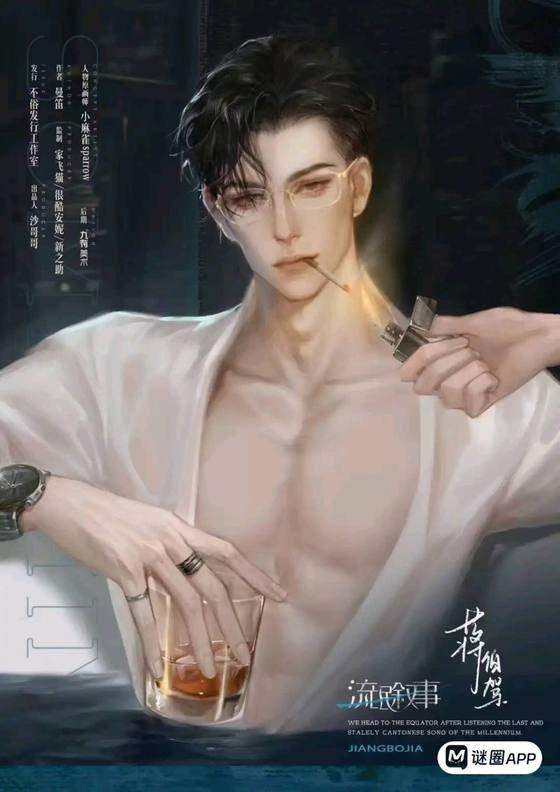
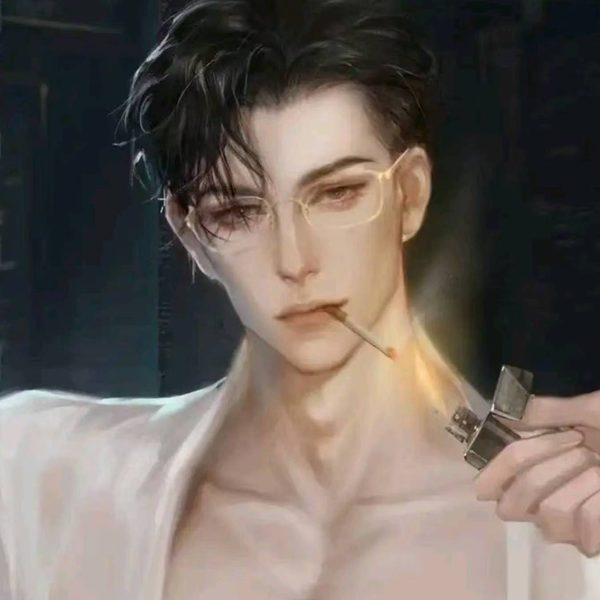
feat(assets): 角色头像统一切换为 600x600 方形裁剪版
按人脸校准裁切并剔除海报文字/水印（芸芸 6 角色 + 流氓叙事 9 角色），
阿奇/羌青瓷男同步方形化；README 同步裁剪口径。

diff --git a/apps/miniapp/src/assets/README.md b/apps/miniapp/src/assets/README.md
@@ -7,7 +7,7 @@
 | 目录 | 用途 | 引用方 | 说明 |
 |---|---|---|---|
 | `icons/` | 底部 tabBar 图标 | `src/app.config.ts` | 每 tab 两张：`name.png`（未选中）+ `name-active.png`（选中） |
-| `characters/` | 角色立绘/头像 | `src/pages/home/index.model.ts` | 竖版海报头像（多数 560×747~792 JPG，q72 压缩），`LOCAL_CHARACTER_AVATARS` 按角色名映射；流氓叙事 9 角色已替换为正式海报，程聿怀/羌青瓷另有性别变体（`chengyuhuai-female.jpg`、`qiangqingci-male.jpg`），选角时按本地选择切换；芸芸 6 角色为 600×600 方形头像（q82，源图：官方角色海报，按人脸校准裁切） |
+| `characters/` | 角色立绘/头像 | `src/pages/home/index.model.ts` | 方形头像为主：芸芸 6 角色与流氓叙事 9 角色（程聿怀男/女、程走柳、羌青瓷女、以撒、奥丁、黛利拉、蒋伯驾、缪宏谟）均为 600×600 JPG（q82，源图：官方角色海报，按人脸校准裁切，剔除海报文字/水印）；流氓叙事 阿奇/羌青瓷男 亦为 600×600 方形头像（q82）；程聿怀/羌青瓷另有性别变体（`chengyuhuai-female.jpg`、`qiangqingci-male.jpg`），选角时按本地选择切换；月见庭院 4 角色为 600×600 方形（无本地原图） |
 | `home/` | 首页脚本封面 | `src/pages/home/index.model.ts`、`src/pages/chat/list.tsx` | `LOCAL_SCRIPT_COVERS` 按 slug 映射；`moon-tower-cover.jpg` 为《流氓叙事》剧本主海报（700×996，q72 压缩，源图：官方售后海报 `剧本主海报.jpg`）；`yunyun-cover.jpg` 为《芸芸》主视觉封面（700×996，q82 压缩，源图：`芸芸素材/00_主视觉封面_沧海浮尘.png`） |
 | `login/` | 登录页背景 | `src/pages/login/index.scss` | 通过 CSS `url()` 引用 |
 | `lordicon/` | 成就动画图标（WebP） | `AchievementIcon`（`packages/miniapp-ui`） | 详见目录内 `README.md`，注意保留 Lordicon 署名 |
